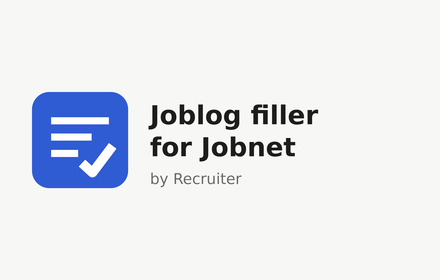
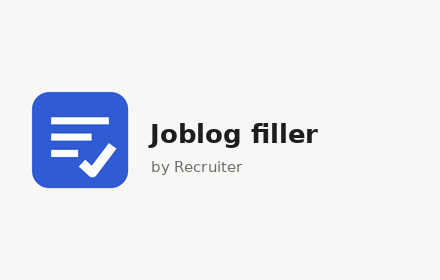
Jobnet extension: renamed "Joblog filler, by Recruiter"
Jonas: no "Jobnet" in the name, so it can't read as made or endorsed by
Jobnet (Chrome's impersonation policy). The description still says it fills
in Jobnet's form, with the not-affiliated line. Manifest, store listing,
/joblog_extension and the 440x280 promo tile.

Claude-Session: https://claude.ai/code/session_01CSx4G2P5inSH99MiW9AquS

Changed region(s): [[0.325, 0.3714, 0.7386, 0.6571]]

diff --git a/modules/joblog_extension/views/index.php b/modules/joblog_extension/views/index.php
@@ -15,7 +15,7 @@
     <meta charset="UTF-8">
     <meta name="viewport" content="width=device-width, initial-scale=1.0">
     <meta name="description" content="A browser extension that fills in Jobnet's Opret joblog form from a match you saved in Recruiter.">
-    <title>Joblog filler for Jobnet · Recruiter</title>
+    <title>Joblog filler · Recruiter</title>
     <link rel="stylesheet" href="welcome_module/css/site.css">
 </head>
 <body>
@@ -33,7 +33,7 @@
     </nav>
 </header>
 <main class="prose">
-    <h1>Joblog filler for Jobnet</h1>
+    <h1>Joblog filler</h1>
     <p class="lead">A browser extension that fills in Jobnet's "Opret joblog" form from a job match you saved in Recruiter: job title, company, address, deadline, contact, the day you applied, your notes, and the application, CV and job ad as PDFs. The jobs you have applied for but not logged on Jobnet yet come first. It never presses Gem: you check the form and save it yourself, and Recruiter then knows that job is on Jobnet.</p>
     <p class="muted">Made by Recruiter. It is not made by, or affiliated with, Jobnet or Styrelsen for Arbejdsmarked og Rekruttering.</p>
 

diff --git a/extensions/jobnet-joblog/store/listing.md b/extensions/jobnet-joblog/store/listing.md
@@ -5,7 +5,7 @@ Add-ons (AMO). Upload `build/jobnet-joblog-<version>.zip` from `make extension`.
 
 ## Name
 
-Joblog filler for Jobnet, by Recruiter
+Joblog filler, by Recruiter
 
 ## Summary (132 characters at most)
 
@@ -13,7 +13,7 @@ Fills in Jobnet's "Opret joblog" form from a match you saved in Recruiter, PDFs 
 
 ## Description
 
-Joblog filler for Jobnet fills in Jobnet's "Opret joblog" form from a job
+Joblog filler fills in Jobnet's "Opret joblog" form from a job
 match you saved in Recruiter (https://recruiter.trongate.dev), so you don't
 have to copy each field by hand.
 
